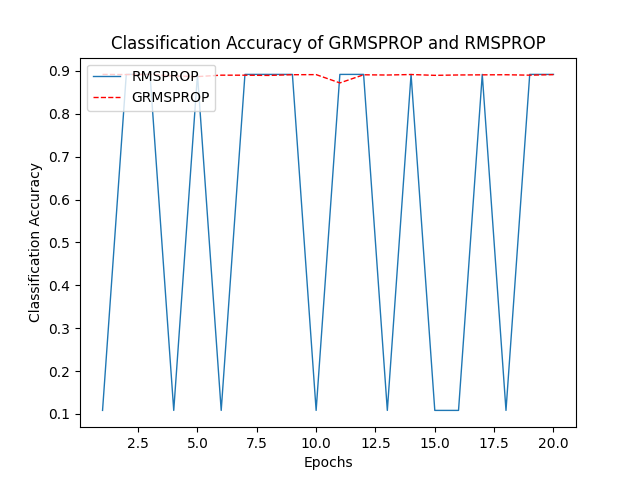
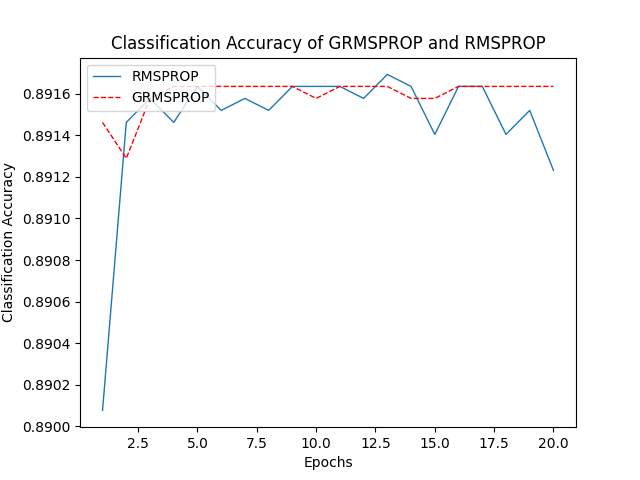
final experiment setup

diff --git a/Enhanced-ANN-GSGD/main.py b/Enhanced-ANN-GSGD/main.py
@@ -29,7 +29,7 @@ def GSGD_ANN(filePath):
     NC, x, y, N, d, xts, yts = readData(filePath)
     
     #model parameters
-    l_rate =   0.02001229522561126#0.019987676959698759#0.0001#0.0002314354244#9.309681215145698e-15#3.0952770286463463e-07#0.0003314354244#0.00011852732093870824#0.00010926827346753853 #0.0002814354245#0.0002216960781458557#0.0002314354244 #0.000885 #0.061 #0.00025 #0.5
+    l_rate =    0.02465229341384616 #0.0195465229341384616#0.2018122514569#0.019987676959698759#0.0001#0.0002314354244#9.309681215145698e-15#3.0952770286463463e-07#0.0003314354244#0.00011852732093870824#0.00010926827346753853 #0.0002814354245#0.0002216960781458557#0.0002314354244 #0.000885 #0.061 #0.00025 #0.5
     n_hiddenA = 30#36#29#50#36#4
     n_hiddenB = 5
     lamda =  1e-06#0.00014659309759736062#0.5964800918102662#0.06067045242012771#1e-05#0.6980844659683136 #1e-06#0.0001  #Lambda will be used for L2 regularizaion
@@ -41,13 +41,13 @@ def GSGD_ANN(filePath):
     is_guided_approach = True
     rho = 20
     versetnum = 5 #number of batches used for verification
-    epochs = 15#27#15
+    epochs = 5#27#15
     revisitNum = 15
     batch_size = 40#812#122#468#300#891#32
 
     optim_params = l_rate, lamda, betas, beta, epsilon
     optims = ['SGD', 'ADAM', 'ADADELTA', 'RMSPROP', 'ADAGRAD']
-    optim_name = optims[0]
+    optim_name = optims[4]
 
     #Results Container
     GSGD_SRoverEpochs, GSGD_EoverEpochs, SGD_SRoverEpochs, SGD_EoverEpochs = [], [], [], []
@@ -264,16 +264,16 @@ def evaluate_algorithm(x, y, xts, yts, cache, results_container):
                 print_results_final(xts, network, yts, loss_function, type='original')
 
 if __name__ == '__main__':
-    root = tk.Tk()
-    root.withdraw()
-    file_path = filedialog.askopenfilename(
-        initialdir=os.path.dirname(os.path.realpath(__file__))+'/data', filetypes=[('data files', '.data')])
-    print(file_path)
-    if(file_path == ''):
-        print('File not found')
-    GSGD_ANN(file_path)
+    # root = tk.Tk()
+    # root.withdraw()
+    # file_path = filedialog.askopenfilename(
+    #     initialdir=os.path.dirname(os.path.realpath(__file__))+'/data', filetypes=[('data files', '.data')])
+    # print(file_path)
+    # if(file_path == ''):
+    #     print('File not found')
 
     #below ccode is only used in environment not supporting GUI/Tkinter, comment the above code wen using this
     #file_path = '/home/paperspace/Documents/Enhanced-ANN-GSGD/Enhanced-ANN-GSGD/data/diabetes_readmission_2class.data'
     #file_path = '/home/paperspace/Documents/Enhanced-ANN-GSGD/Enhanced-ANN-GSGD/data/BreastCancerDiagnostic.data'
+    file_path = 'C:/Users/avishek.ram/Documents/GitHub/Enhanced-ANN-GSGD/Enhanced-ANN-GSGD/data/diabetes_readmission_2class.data'
     GSGD_ANN(file_path)

diff --git a/Enhanced-ANN-GSGD/experiment.py b/Enhanced-ANN-GSGD/experiment.py
@@ -23,7 +23,7 @@ from main import *
 from data_layer import *
 
 def GSGD_ANN_experiment(filePath):
-    optims = ['ADADELTA', 'RMSPROP', 'ADAGRAD','SGD', 'ADAM']
+    optims = ['RMSPROP', 'ADAGRAD','SGD', 'ADAM', 'ADADELTA'] 
 
     connlite = connect()
 
@@ -35,7 +35,7 @@ def GSGD_ANN_experiment(filePath):
                 NC, x, y, N, d, xts, yts = readData(filePath)
     
                 #model parameters
-                l_rate =   0.2001229522561126#0.019987676959698759#0.0001#0.0002314354244#9.309681215145698e-15#3.0952770286463463e-07#0.0003314354244#0.00011852732093870824#0.00010926827346753853 #0.0002814354245#0.0002216960781458557#0.0002314354244 #0.000885 #0.061 #0.00025 #0.5
+                l_rate =   0.02001229522561126#0.019987676959698759#0.0001#0.0002314354244#9.309681215145698e-15#3.0952770286463463e-07#0.0003314354244#0.00011852732093870824#0.00010926827346753853 #0.0002814354245#0.0002216960781458557#0.0002314354244 #0.000885 #0.061 #0.00025 #0.5
                 n_hiddenA = 30#36#29#50#36#4
                 n_hiddenB = 5
                 lamda =  1e-06#0.00014659309759736062#0.5964800918102662#0.06067045242012771#1e-05#0.6980844659683136 #1e-06#0.0001  #Lambda will be used for L2 regularizaion
@@ -50,6 +50,24 @@ def GSGD_ANN_experiment(filePath):
                 epochs = 20#27#15
                 revisitNum = 15
                 batch_size = 40#812#122#468#300#891#32
+
+                #temporary experiment setup
+                if(optim_name == 'RMSPROP'):
+                    l_rate = 0.003098121514569
+                    epochs = 5
+                elif(optim_name == 'ADAGRAD'):
+                    l_rate = 0.02465229341384616
+                    epochs = 5
+                elif(optim_name == 'SGD'):
+                    l_rate =  0.18018122514569
+                    epochs = 5
+                elif(optim_name == 'ADAM'):
+                    l_rate =  0.0035465229341384616
+                    epochs = 5
+                elif(optim_name == 'ADADELTA'):
+                    l_rate =  0.2008229522561126
+                    epochs = 20
+                #end
 
                 optim_params = l_rate, lamda, betas, beta, epsilon
 
@@ -262,9 +280,9 @@ def evaluate_algorithm_experiment(x, y, xts, yts, cache, results_container, expe
                     break
         
             SR, E = validate(xts, network, yts, loss_function)
-            print('Epoch : %s' % str(epoch+1))
-            print('Accuracy: %s' % SR.item())
-            print('Error Rate: %s' % E)
+            # print('Epoch : %s' % str(epoch+1))
+            # print('Accuracy: %s' % SR.item())
+            # print('Error Rate: %s' % E)
             
             #Epoch Completes here
             GSGD_SRoverEpochs.append(SR.item())
